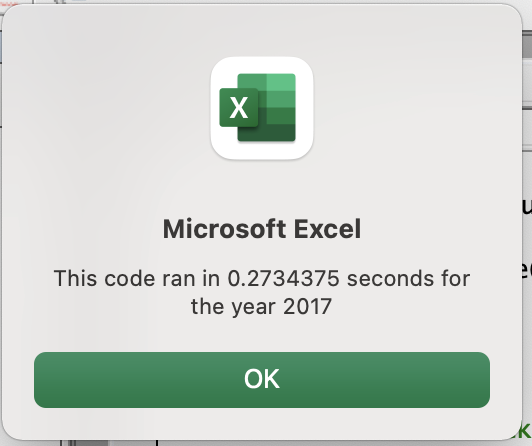
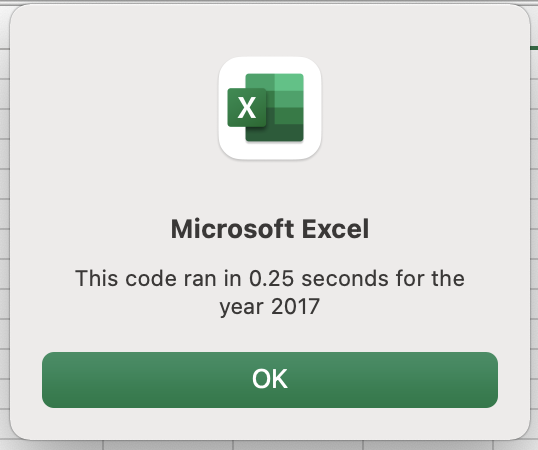
Final Challenge

diff --git a/Readme.md b/Readme.md
@@ -11,10 +11,14 @@ Based on the 2017 results, all but one stock saw positive results, but when look
 
 ![Alt Image Text](https://github.com/mkback/stock-analysis/blob/master/Resources/Results.png)
 
-We ran this code twice, the first time it took about .3281 seconds to run. After we refactored the code, it took the run time down to .2734 seconds. This may only be a small difference, but this is a small piece of code. With larger code running, refactoring can show much more improvement. See below for the run times of the refactored code. 
+We ran this code twice, the first time it took about .27 seconds to run. After we refactored the code, it took the run time down to .25 seconds. This may only be a small difference, but this is a small piece of code. With larger code running, refactoring can show much more improvement. See below for the run times of the refactored code vs not refactored. 
 
 ![Alt Image Text](https://github.com/mkback/stock-analysis/blob/master/Resources/VBA_Challenge_2017.png)
-![Alt Image Text](https://github.com/mkback/stock-analysis/blob/master/Resources/VBA_Challenge_2018.png)
+![Alt Image Text](https://github.com/mkback/stock-analysis/blob/master/Resources/VBA_NotRefactored.png)
+
+The difference between the code is making it loop only once and adding an index. See below screen shot for part of the refactored code. In this screenshot you can see one large for loop for i that goes through each line once and a smaller for loop for j that goes through the 12 tickers. 
+![Alt Image Text](https://github.com/mkback/stock-analysis/blob/master/Resources/Code.png)
+
 
 ## Summary
 
